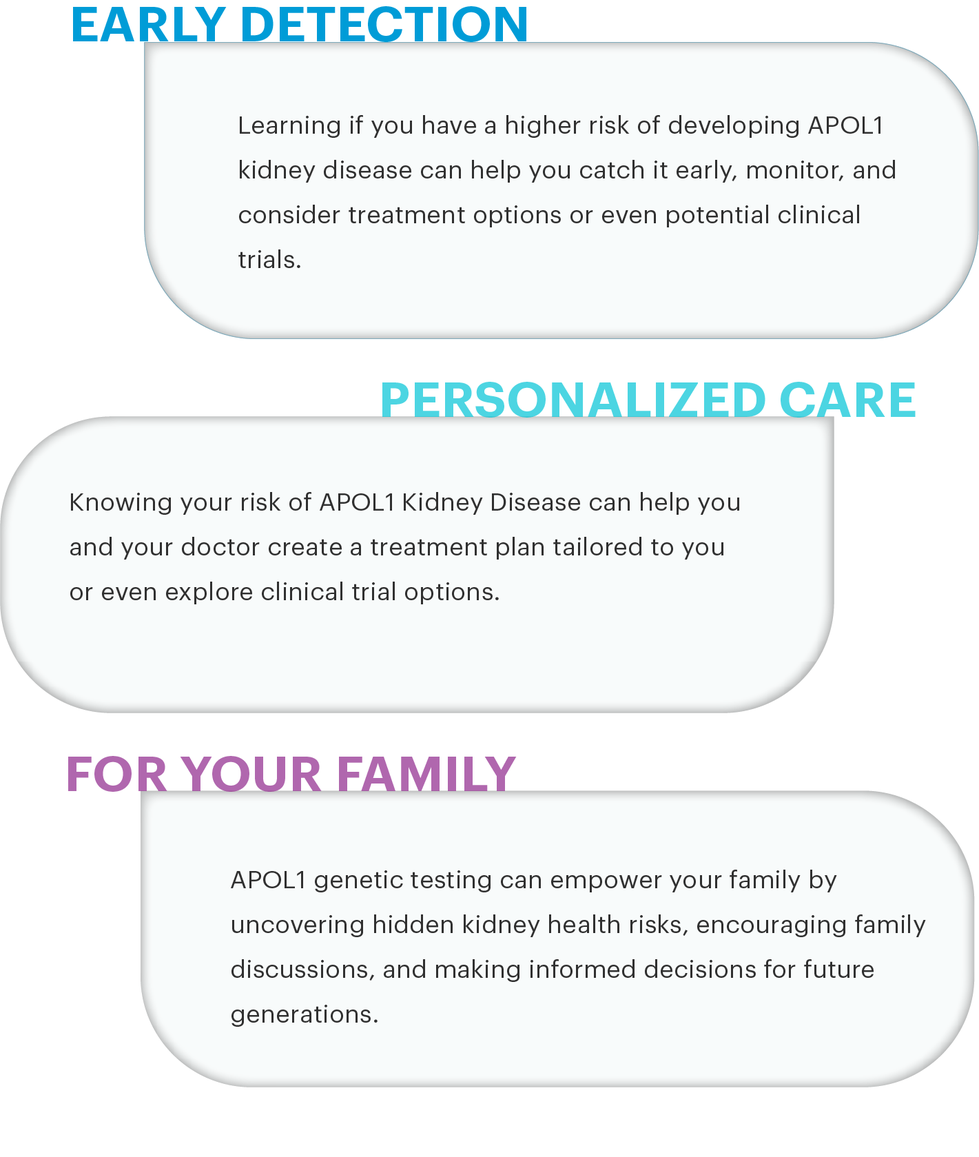
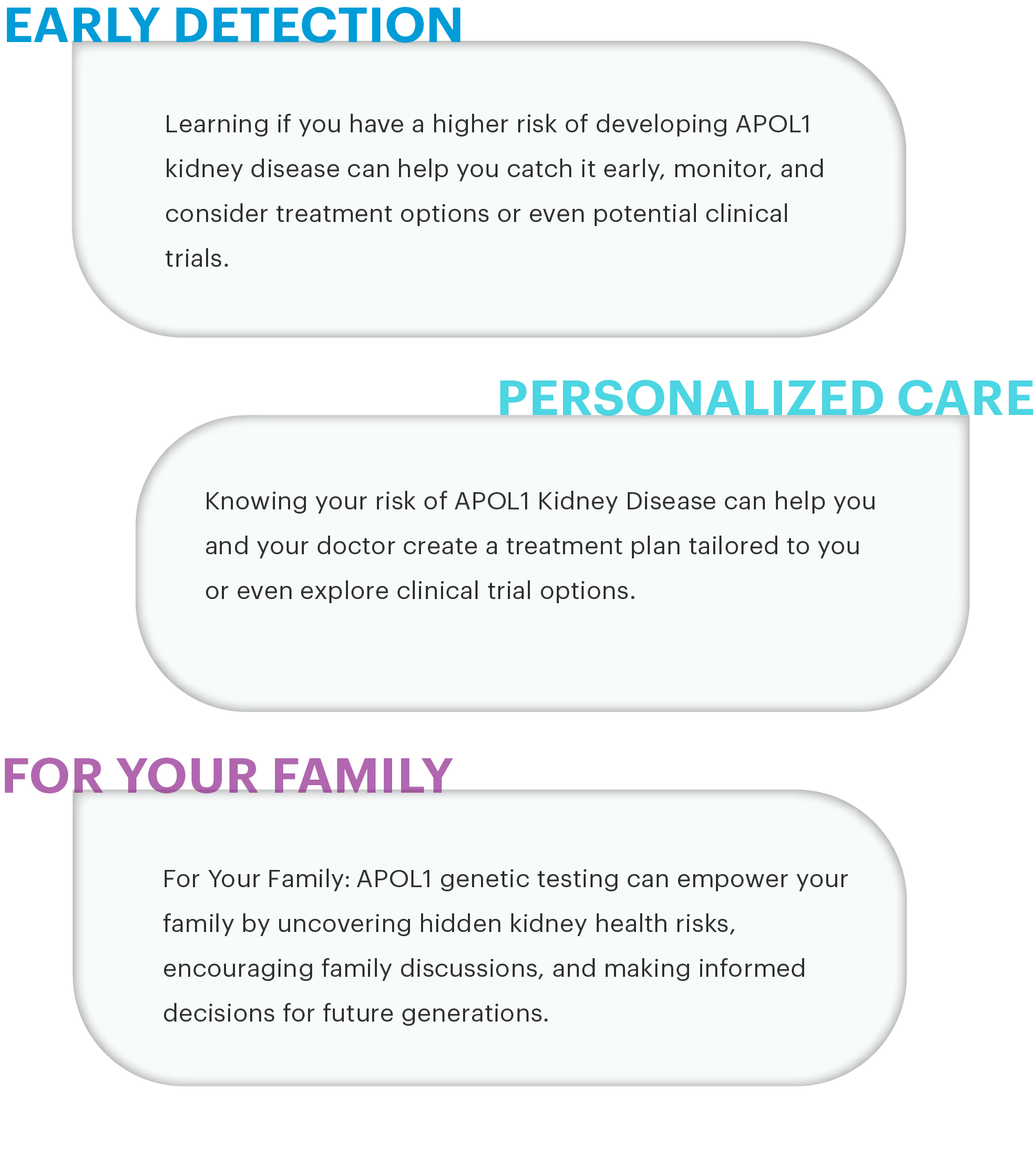
updated nav title and slider

diff --git a/assets/css/index.min.css b/assets/css/index.min.css
@@ -1,1 +1,1 @@
-@font-face{font-family:"Graphik Trial";src:url("../fonts/Graphik-Semibold-Trial.otf") format("opentype");font-weight:500}@font-face{font-family:"Graphik Trial";src:url("../fonts/Graphik-Medium-Trial.otf") format("opentype");font-weight:600}@font-face{font-family:"Graphik Trial";src:url("../fonts/Graphik-Regular-Trial.otf") format("opentype");font-weight:400}html{scroll-behavior:smooth}body{overflow-x:hidden}*{margin:0;padding:0;-webkit-box-sizing:border-box;box-sizing:border-box;font-family:"Graphik Trial"}.hr{width:100%;height:1px;display:block;position:relative;margin-bottom:0em;padding:2em 0}.hr:after,.hr:before{content:"";position:absolute;width:100%;height:1px;bottom:50%;left:0}.hr:before{background:-webkit-gradient(linear, left top, right top, from(#10111F), color-stop(50%, #10111F), color-stop(50%, transparent), to(transparent));background:linear-gradient(90deg, #10111F 0%, #10111F 50%, transparent 50%, transparent 100%);background-size:15px;background-position:center;z-index:1}.hr:after{-webkit-transition:opacity .3s ease,-webkit-animation .3s ease;transition:opacity .3s ease,-webkit-animation .3s ease;transition:opacity .3s ease,animation .3s ease;transition:opacity .3s ease,animation .3s ease,-webkit-animation .3s ease;background:-webkit-gradient(linear, left top, right top, color-stop(5%, #62efab), color-stop(15%, #F2EA7D), color-stop(25%, #F2EA7D), color-stop(35%, #FF8797), color-stop(45%, #FF8797), color-stop(55%, #e1a4f4), color-stop(65%, #e1a4f4), color-stop(75%, #82fff4), color-stop(85%, #82fff4), color-stop(95%, #62efab));background:linear-gradient(to right, #62efab 5%, #F2EA7D 15%, #F2EA7D 25%, #FF8797 35%, #FF8797 45%, #e1a4f4 55%, #e1a4f4 65%, #82fff4 75%, #82fff4 85%, #62efab 95%);background-size:200%;background-position:0%;-webkit-animation:bar 15s linear infinite;animation:bar 15s linear infinite}@-webkit-keyframes bar{0%{background-position:0%}100%{background-position:200%}}@keyframes bar{0%{background-position:0%}100%{background-position:200%}}.container{max-width:1800px;margin:auto;padding:60px 100px}@media(max-width: 800px){.container{padding:40px}}@media(max-width: 480px){.container{padding:40px 20px}}.bg{background-repeat:no-repeat;background-size:cover;background-position:top}.bg_contain{background-repeat:no-repeat;background-position:top;background-size:contain}a.pink_link{margin-bottom:20px;display:inline-block;text-decoration:none;padding:4px 40px 9px 40px;border-radius:40px;color:#f3f5f5;font-weight:400;background:#f3f5f5;-webkit-box-shadow:rgba(0,0,0,.1) 0px 4px 6px -1px,rgba(0,0,0,.06) 0px 2px 4px -1px;box-shadow:rgba(0,0,0,.1) 0px 4px 6px -1px,rgba(0,0,0,.06) 0px 2px 4px -1px;position:relative;z-index:99;overflow:hidden}a.pink_link::before{content:"";width:100%;height:100%;background:linear-gradient(94deg, rgba(236, 78, 86, 0.6) 0%, rgba(171, 30, 112, 0.6) 100%);position:absolute;left:0;top:0;right:0;bottom:0;z-index:-1}p{font-weight:400;line-height:40px;font-size:24px}@media(max-width: 480px){p{font-size:18px}}.heading{font-size:30px;font-weight:600;color:#c40c72;text-transform:uppercase}@media(max-width: 800px){.heading{margin-bottom:40px}}span.bullet{display:inline-block;width:20px;height:20px;background:#c40c72;border-radius:50%;margin-right:5px}img{width:100%}.brand{color:#c40c72;font-weight:600}.sub_p{margin:60px}@media(max-width: 800px){.sub_p{margin:0}}.sub_padding{padding:60px}@media(max-width: 800px){.sub_padding{padding:0}}header{position:absolute;top:0;left:0;right:0}header .container{display:-webkit-box;display:-ms-flexbox;display:flex;-webkit-box-pack:justify;-ms-flex-pack:justify;justify-content:space-between}header .container .middle img{width:190px}header .container .right button{background:rgba(0,0,0,0);border:none;outline:none;cursor:pointer}header .container .right svg{width:30px;display:-webkit-box;display:-ms-flexbox;display:flex;-webkit-box-pack:justify;-ms-flex-pack:justify;justify-content:space-between}header #menu{background-color:#2e537f;position:fixed;right:-548px;top:0;bottom:0;height:100%;z-index:99999;padding:40px;-webkit-transition:all .4s linear;transition:all .4s linear}header #menu.show{right:0}header #menu .close{text-align:right;margin-bottom:40px}header #menu .close img{width:30px}header #menu .close a{display:inline-block}header #menu ul{list-style:none}header #menu ul a{text-decoration:none;color:#f3f5f5;padding:14px 0;display:block;text-transform:uppercase}#hero{background-image:url("../images/hero-bg-new.png");height:100vh;background-position:center}@media(max-width: 480px){#hero{background-image:url("../images/mobilie-home.png");background-position:left top}}#hero .container{display:-webkit-box;display:-ms-flexbox;display:flex;height:100%;-webkit-box-align:end;-ms-flex-align:end;align-items:end;-webkit-box-pack:end;-ms-flex-pack:end;justify-content:end}@media(max-width: 480px){#hero .container{-webkit-box-pack:center;-ms-flex-pack:center;justify-content:center;-webkit-box-align:start;-ms-flex-align:start;align-items:start}}#hero .text{text-align:right;margin-right:20px}@media(max-width: 800px){#hero .text{margin-right:0}}@media(max-width: 480px){#hero .text{text-align:center}}#hero h1{font-size:50px;letter-spacing:.38px;color:#faf8f8;font-weight:600;margin-bottom:60px}@media(max-width: 480px){#hero h1{font-size:30px;margin-bottom:0;margin-top:150px}}#hero .brand{color:#255b7c;font-weight:500}#slider_nav{margin-top:40px}#slider_nav .container{position:relative}#slider_nav a.pink_link{text-transform:uppercase}#slider_nav .bg{position:absolute;top:0;left:0;z-index:-1;width:40%;-o-object-fit:contain;object-fit:contain}#slider_nav .heading{font-size:30px;font-weight:400;margin-bottom:60px;color:#303030}#slider_nav .img{position:relative;border-radius:8px;overflow:hidden;display:-webkit-box;display:-ms-flexbox;display:flex}#slider_nav .img img{-o-object-fit:cover;object-fit:cover;width:100%;height:100%}#slider_nav .img .text{position:absolute;bottom:0;left:0;right:0;padding:0 30px;display:none}#slider_nav .img .text h2{font-weight:600;color:#fff;text-transform:uppercase;margin-bottom:15px}#slider_nav .swiper-slide{width:50rem}#slider_nav .swiper-slide p{margin:20px 20px 40px}#slider_nav .swiper-slide-prev .img{border:10px solid gray !important}#slider_nav .swiper-slide-next .img{border:10px solid gray !important}#slider_nav .swiper-slide-prev,#slider_nav .swiper-slide-next{-webkit-filter:grayscale(100%);filter:grayscale(100%)}#slider_nav p{display:none}#slider_nav .swiper-slide-active p{display:block;text-align:center}#slider_nav .swiper-slide-active .img{border:10px solid #c40c72}#slider_nav .swiper-slide-active .text{display:block}#slider_nav .swiper-button-next:after,#slider_nav .swiper-rtl .swiper-button-prev:after,#slider_nav .swiper-button-prev:after,#slider_nav .swiper-rtl .swiper-button-next:after{content:none}#slider_nav .swiper-button-next img,#slider_nav .swiper-button-prev img{width:65px;height:65px}@media(max-width: 480px){#slider_nav .swiper-button-next img,#slider_nav .swiper-button-prev img{width:40px;height:40px}}#slider_nav .swiper-pagination-bullet{width:15px;height:15px;background:#ec4e55;background:linear-gradient(100deg, rgb(236, 78, 85) 3%, rgb(171, 30, 113) 100%);z-index:9999}#slider_nav .swiper-pagination-bullet.swiper-pagination-bullet-active{width:20px;height:20px}#slider_nav .swiper-button-next,#slider_nav .swiper-button-prev{top:43%}#slider_nav .swiper-button-next{right:85px}@media(max-width: 800px){#slider_nav .swiper-button-next{right:20px}}@media(max-width: 480px){#slider_nav .swiper-button-next{right:10px}}#slider_nav .swiper-button-prev{left:85px}@media(max-width: 800px){#slider_nav .swiper-button-prev{left:20px}}@media(max-width: 480px){#slider_nav .swiper-button-prev{left:10px}}#apol1_origin .row{display:-webkit-box;display:-ms-flexbox;display:flex;gap:10px;-webkit-box-align:center;-ms-flex-align:center;align-items:center}@media(max-width: 800px){#apol1_origin .row{-webkit-box-orient:vertical;-webkit-box-direction:reverse;-ms-flex-direction:column-reverse;flex-direction:column-reverse}}#apol1_origin .left,#apol1_origin .right{-webkit-box-flex:1;-ms-flex:1;flex:1}#apol1_origin .right{text-align:right}#apol1_origin .right img{max-height:440px;-o-object-fit:contain;object-fit:contain;width:100%}@media(max-width: 800px){#apol1_origin .right img{max-height:240px;margin:20px 0}}#apol1_origin img{width:100%}#apol1_origin p{margin-bottom:30px}#apol1_origin .centered{margin-top:30px;max-width:900px;margin:30px auto}#apol_kidney img{margin:40px 0 60px}#apol_kidney .row{display:-webkit-box;display:-ms-flexbox;display:flex;gap:40px}@media(max-width: 800px){#apol_kidney .row{-webkit-box-orient:vertical;-webkit-box-direction:normal;-ms-flex-direction:column;flex-direction:column}}#recognizing_symptoms img{max-width:600px;margin:auto}#recognizing_symptoms .img{text-align:center}@media(max-width: 800px){#recognizing_symptoms .img{margin-top:20px}}#apol1_gene{background-position:center}#apol1_gene .container{padding-bottom:0}#apol1_gene .gene{padding:100px 100px 0}@media(max-width: 800px){#apol1_gene .gene{padding:40px 40px 0}}#apol1_gene .row.bg_contain{background-position:center}@media(max-width: 800px){#apol1_gene .row.bg_contain{background-position:left}#apol1_gene .row.bg_contain .container{padding:0}}#apol1_gene .text{height:400px;display:-webkit-box;display:-ms-flexbox;display:flex;-webkit-box-pack:end;-ms-flex-pack:end;justify-content:end;-webkit-box-align:end;-ms-flex-align:end;align-items:end}@media(max-width: 800px){#apol1_gene .text{height:auto}}#apol1_gene .text p{max-width:800px;background-color:rgba(255,255,255,.74);padding:30px;border-radius:30px}@media(max-width: 800px){#apol1_gene .text p{background-color:rgba(255,255,255,.74);border-radius:0}}#mazes_commitment .container{position:relative}#mazes_commitment .text{padding:40px}@media(max-width: 800px){#mazes_commitment .text{padding:0}}#mazes_commitment .text p{margin:20px 0}#mazes_commitment .bg_obj{position:absolute;max-width:500px;top:0;right:40px;z-index:-1}@media(max-width: 800px){#mazes_commitment .bg_obj{max-width:300px;top:100px;right:0}}#mazes_commitment .form-container{padding:20px;border-radius:8px}#mazes_commitment .form-container form{display:-webkit-box;display:-ms-flexbox;display:flex;-webkit-box-orient:vertical;-webkit-box-direction:normal;-ms-flex-direction:column;flex-direction:column}#mazes_commitment .form-container .input-group{margin-bottom:20px}#mazes_commitment .form-container input,#mazes_commitment .form-container textarea{width:100%;padding:10px;border:1px solid #666;border-radius:4px;background-color:#fff;color:#000;font-size:18px}#mazes_commitment .form-container input::-webkit-input-placeholder, #mazes_commitment .form-container textarea::-webkit-input-placeholder{color:#5d5d5d}#mazes_commitment .form-container input::-moz-placeholder, #mazes_commitment .form-container textarea::-moz-placeholder{color:#5d5d5d}#mazes_commitment .form-container input:-ms-input-placeholder, #mazes_commitment .form-container textarea:-ms-input-placeholder{color:#5d5d5d}#mazes_commitment .form-container input::-ms-input-placeholder, #mazes_commitment .form-container textarea::-ms-input-placeholder{color:#5d5d5d}#mazes_commitment .form-container input::placeholder,#mazes_commitment .form-container textarea::placeholder{color:#5d5d5d}#mazes_commitment .form-container .input-row{display:-webkit-box;display:-ms-flexbox;display:flex;-webkit-box-pack:justify;-ms-flex-pack:justify;justify-content:space-between;gap:20px}#mazes_commitment .form-container .input-row .input-group{width:50%}#mazes_commitment .form-container .captcha{display:-webkit-box;display:-ms-flexbox;display:flex;-webkit-box-pack:justify;-ms-flex-pack:justify;justify-content:space-between;-webkit-box-align:center;-ms-flex-align:center;align-items:center;padding:10px;border:1px solid #666;border-radius:4px;background-color:#fff}#mazes_commitment .form-container .captcha input{border:none;outline:none;padding:0;margin:0}#mazes_commitment .form-container .captcha label{margin-right:10px;display:inline-block;min-width:70px}#mazes_commitment .form-container .submit-btn{background-color:#8bc34a;color:#fff;padding:10px;border:none;border-radius:4px;cursor:pointer;font-size:18px}#mazes_commitment .form-container .submit-btn:hover{background-color:#7cb342}#mazes_commitment .form-container .loader{border:3px solid #f3f3f3;border-top:3px solid #3498db;border-radius:50%;width:15px;height:15px;-webkit-animation:spin 1s linear infinite;animation:spin 1s linear infinite;display:none;margin-left:10px}@-webkit-keyframes spin{0%{-webkit-transform:rotate(0deg);transform:rotate(0deg)}100%{-webkit-transform:rotate(360deg);transform:rotate(360deg)}}@keyframes spin{0%{-webkit-transform:rotate(0deg);transform:rotate(0deg)}100%{-webkit-transform:rotate(360deg);transform:rotate(360deg)}}#mazes_commitment a{color:#5cc1cb}#advisary_committee .text{margin-bottom:150px}#advisary_committee .committee{background-position:center;background-size:cover}#advisary_committee .users{display:-webkit-box;display:-ms-flexbox;display:flex;gap:40px;-ms-flex-wrap:wrap;flex-wrap:wrap;-webkit-box-pack:center;-ms-flex-pack:center;justify-content:center}#advisary_committee .users .user{-webkit-box-flex:1;-ms-flex:1;flex:1;max-width:295px;min-width:200px;-webkit-transition:all .6s linear;transition:all .6s linear}#advisary_committee .users .user:hover img{-webkit-transform:scaleY(1.01);transform:scaleY(1.01);-webkit-transform-origin:bottom;transform-origin:bottom}#advisary_committee .users h6{font-size:20px;font-weight:600;margin:10px 0}#advisary_committee .users .title{font-size:16px}#advisary_committee img{background-color:#f3f5f5;-webkit-transition:all .3s ease-in-out;transition:all .3s ease-in-out;max-height:350px;height:100%;-o-object-fit:cover;object-fit:cover;-o-object-position:top;object-position:top}#advisary_committee .users{margin-top:-200px}#learn_more{background-position:center}#learn_more .highlight{background-color:rgba(255,192,203,.231372549);color:#000;display:inline-block;padding:0 10px}@media(max-width: 800px){#learn_more .highlight{margin-bottom:40px}}#learn_more h5{font-size:20px;color:#c40c72;margin-bottom:10px}#learn_more p{font-size:20px}#learn_more a{display:inline-block;color:#5cc1cb}#learn_more .tab{-webkit-box-shadow:rgba(99,99,99,.2) 0px 2px 8px 0px;box-shadow:rgba(99,99,99,.2) 0px 2px 8px 0px;padding:20px 50px;margin-bottom:40px;min-height:140px;-webkit-transition:all .3s ease-in-out;transition:all .3s ease-in-out;-webkit-transform-origin:top;transform-origin:top}@media(max-width: 480px){#learn_more .tab{padding:20px 30px}}#learn_more .full_content{overflow:hidden;-webkit-transition:height .3s linear;transition:height .3s linear}#learn_more .full_content ul{padding-left:20px}#learn_more .full_content ul li{margin-bottom:10px}#learn_more .full_content.h-0{height:0px;-webkit-transition:height .3s linear;transition:height .3s linear}#maze_affliations .brands{display:-webkit-box;display:-ms-flexbox;display:flex;-webkit-box-align:center;-ms-flex-align:center;align-items:center}footer{background-color:#2e537f}footer .container{padding:20px 100px}@media(max-width: 800px){footer .container{padding:20px}}footer .row{display:-webkit-box;display:-ms-flexbox;display:flex;gap:20px;-webkit-box-pack:justify;-ms-flex-pack:justify;justify-content:space-between;-webkit-box-align:center;-ms-flex-align:center;align-items:center}footer h4 a{color:#9ccac8;font-size:22px;text-decoration:none}footer ul{display:-webkit-box;display:-ms-flexbox;display:flex;gap:40px;list-style:none;-webkit-box-pack:right;-ms-flex-pack:right;justify-content:right}@media(max-width: 800px){footer ul{margin:20;-ms-flex-wrap:wrap;flex-wrap:wrap}}footer ul a{color:#f3f5f5}footer .top-link{display:inline-block;background:linear-gradient(100deg, rgb(236, 78, 85) 3%, rgb(171, 30, 113) 100%);width:50px;height:50px;text-align:center;border-radius:4px;position:fixed;bottom:30px;right:30px;-webkit-transition:background-color .3s,opacity .5s,visibility .5s;transition:background-color .3s,opacity .5s,visibility .5s;opacity:0;visibility:hidden;z-index:1000;padding:10px}@media(max-width: 480px){footer .top-link{width:35px;height:35px;padding:8px}}footer .top-link .screen-reader-text{display:none}footer .top-link svg{fill:#fff}footer .top-link.show{visibility:visible;opacity:1}footer .top-link.hide{visibility:hidden;opacity:0}
+@font-face{font-family:"Graphik Trial";src:url("../fonts/Graphik-Semibold-Trial.otf") format("opentype");font-weight:500}@font-face{font-family:"Graphik Trial";src:url("../fonts/Graphik-Medium-Trial.otf") format("opentype");font-weight:600}@font-face{font-family:"Graphik Trial";src:url("../fonts/Graphik-Regular-Trial.otf") format("opentype");font-weight:400}html{scroll-behavior:smooth}body{overflow-x:hidden}*{margin:0;padding:0;-webkit-box-sizing:border-box;box-sizing:border-box;font-family:"Graphik Trial"}.hr{width:100%;height:1px;display:block;position:relative;margin-bottom:0em;padding:2em 0}.hr:after,.hr:before{content:"";position:absolute;width:100%;height:1px;bottom:50%;left:0}.hr:before{background:-webkit-gradient(linear, left top, right top, from(#10111F), color-stop(50%, #10111F), color-stop(50%, transparent), to(transparent));background:linear-gradient(90deg, #10111F 0%, #10111F 50%, transparent 50%, transparent 100%);background-size:15px;background-position:center;z-index:1}.hr:after{-webkit-transition:opacity .3s ease,-webkit-animation .3s ease;transition:opacity .3s ease,-webkit-animation .3s ease;transition:opacity .3s ease,animation .3s ease;transition:opacity .3s ease,animation .3s ease,-webkit-animation .3s ease;background:-webkit-gradient(linear, left top, right top, color-stop(5%, #62efab), color-stop(15%, #F2EA7D), color-stop(25%, #F2EA7D), color-stop(35%, #FF8797), color-stop(45%, #FF8797), color-stop(55%, #e1a4f4), color-stop(65%, #e1a4f4), color-stop(75%, #82fff4), color-stop(85%, #82fff4), color-stop(95%, #62efab));background:linear-gradient(to right, #62efab 5%, #F2EA7D 15%, #F2EA7D 25%, #FF8797 35%, #FF8797 45%, #e1a4f4 55%, #e1a4f4 65%, #82fff4 75%, #82fff4 85%, #62efab 95%);background-size:200%;background-position:0%;-webkit-animation:bar 15s linear infinite;animation:bar 15s linear infinite}@-webkit-keyframes bar{0%{background-position:0%}100%{background-position:200%}}@keyframes bar{0%{background-position:0%}100%{background-position:200%}}.container{max-width:1800px;margin:auto;padding:60px 100px}@media(max-width: 800px){.container{padding:40px}}@media(max-width: 480px){.container{padding:40px 20px}}.bg{background-repeat:no-repeat;background-size:cover;background-position:top}.bg_contain{background-repeat:no-repeat;background-position:top;background-size:contain}a.pink_link{margin-bottom:20px;display:inline-block;text-decoration:none;padding:4px 40px 9px 40px;border-radius:40px;color:#f3f5f5;font-weight:400;background:#f3f5f5;-webkit-box-shadow:rgba(0,0,0,.1) 0px 4px 6px -1px,rgba(0,0,0,.06) 0px 2px 4px -1px;box-shadow:rgba(0,0,0,.1) 0px 4px 6px -1px,rgba(0,0,0,.06) 0px 2px 4px -1px;position:relative;z-index:99;overflow:hidden}a.pink_link::before{content:"";width:100%;height:100%;background:linear-gradient(94deg, rgba(236, 78, 86, 0.6) 0%, rgba(171, 30, 112, 0.6) 100%);position:absolute;left:0;top:0;right:0;bottom:0;z-index:-1}p{font-weight:400;line-height:40px;font-size:24px}@media(max-width: 480px){p{font-size:18px}}.heading{font-size:30px;font-weight:600;color:#c40c72;text-transform:uppercase}@media(max-width: 800px){.heading{margin-bottom:40px}}span.bullet{display:inline-block;width:20px;height:20px;background:#c40c72;border-radius:50%;margin-right:5px}img{width:100%}.brand{color:#c40c72;font-weight:600}.sub_p{margin:60px}@media(max-width: 800px){.sub_p{margin:0}}.sub_padding{padding:60px}@media(max-width: 800px){.sub_padding{padding:0}}header{position:absolute;top:0;left:0;right:0}header .container{display:-webkit-box;display:-ms-flexbox;display:flex;-webkit-box-pack:justify;-ms-flex-pack:justify;justify-content:space-between}header .container .middle img{width:190px}header .container .right button{background:rgba(0,0,0,0);border:none;outline:none;cursor:pointer}header .container .right svg{width:30px;display:-webkit-box;display:-ms-flexbox;display:flex;-webkit-box-pack:justify;-ms-flex-pack:justify;justify-content:space-between}header #menu{background-color:#2e537f;position:fixed;right:-548px;top:0;bottom:0;height:100%;z-index:99999;padding:40px;-webkit-transition:all .4s linear;transition:all .4s linear}header #menu.show{right:0}header #menu .close{text-align:right;margin-bottom:40px}header #menu .close img{width:30px}header #menu .close a{display:inline-block}header #menu ul{list-style:none}header #menu ul a{text-decoration:none;color:#f3f5f5;padding:14px 0;display:block;text-transform:uppercase}#hero{background-image:url("../images/hero-bg-new.png");height:100vh;background-position:center}@media(max-width: 480px){#hero{background-image:url("../images/mobilie-home.png");background-position:left top}}#hero .container{display:-webkit-box;display:-ms-flexbox;display:flex;height:100%;-webkit-box-align:end;-ms-flex-align:end;align-items:end;-webkit-box-pack:end;-ms-flex-pack:end;justify-content:end}@media(max-width: 480px){#hero .container{-webkit-box-pack:center;-ms-flex-pack:center;justify-content:center;-webkit-box-align:start;-ms-flex-align:start;align-items:start}}#hero .text{text-align:right;margin-right:20px}@media(max-width: 800px){#hero .text{margin-right:0}}@media(max-width: 480px){#hero .text{text-align:center}}#hero h1{font-size:50px;letter-spacing:.38px;color:#faf8f8;font-weight:600;margin-bottom:60px}@media(max-width: 480px){#hero h1{font-size:30px;margin-bottom:0;margin-top:150px}}#hero .brand{color:#255b7c;font-weight:500}#slider_nav{margin-top:40px}#slider_nav .container{position:relative}#slider_nav a.pink_link{text-transform:uppercase}#slider_nav .bg{position:absolute;top:0;left:0;z-index:-1;width:40%;-o-object-fit:contain;object-fit:contain}#slider_nav .heading{font-size:30px;font-weight:400;margin-bottom:60px;color:#303030}#slider_nav .img{position:relative;border-radius:8px;overflow:hidden;display:-webkit-box;display:-ms-flexbox;display:flex}#slider_nav .img img{-o-object-fit:cover;object-fit:cover;width:100%;height:100%}#slider_nav .img .text{position:absolute;bottom:0;left:0;right:0;padding:0 30px;display:none}#slider_nav .img .text h2{font-weight:600;color:#fff;text-transform:uppercase;margin-bottom:15px}#slider_nav .swiper-slide{width:50rem}#slider_nav .swiper-slide p{margin:20px 20px 40px}#slider_nav .swiper-slide-prev .img{border:10px solid gray !important}#slider_nav .swiper-slide-next .img{border:10px solid gray !important}#slider_nav .swiper-slide-prev,#slider_nav .swiper-slide-next{-webkit-filter:grayscale(100%);filter:grayscale(100%)}#slider_nav p{display:none}#slider_nav .swiper-slide-active p{display:block;text-align:center}#slider_nav .swiper-slide-active .img{border:10px solid #c40c72}#slider_nav .swiper-slide-active .text{display:block}#slider_nav .swiper-button-next:after,#slider_nav .swiper-rtl .swiper-button-prev:after,#slider_nav .swiper-button-prev:after,#slider_nav .swiper-rtl .swiper-button-next:after{content:none}#slider_nav .swiper-button-next img,#slider_nav .swiper-button-prev img{width:65px;height:65px}@media(max-width: 480px){#slider_nav .swiper-button-next img,#slider_nav .swiper-button-prev img{width:40px;height:40px}}#slider_nav .swiper-pagination-bullet{width:15px;height:15px;background:#ec4e55;background:linear-gradient(100deg, rgb(236, 78, 85) 3%, rgb(171, 30, 113) 100%);z-index:9999}#slider_nav .swiper-pagination-bullet.swiper-pagination-bullet-active{width:20px;height:20px}#slider_nav .swiper-button-next,#slider_nav .swiper-button-prev{top:43%}#slider_nav .swiper-button-next{right:85px}@media(max-width: 800px){#slider_nav .swiper-button-next{right:20px}}@media(max-width: 480px){#slider_nav .swiper-button-next{right:10px}}#slider_nav .swiper-button-prev{left:85px}@media(max-width: 800px){#slider_nav .swiper-button-prev{left:20px}}@media(max-width: 480px){#slider_nav .swiper-button-prev{left:10px}}#apol1_origin .row{display:-webkit-box;display:-ms-flexbox;display:flex;gap:60px;-webkit-box-align:center;-ms-flex-align:center;align-items:center}#apol1_origin .left,#apol1_origin .right{-webkit-box-flex:1;-ms-flex:1;flex:1}#apol1_origin .right{text-align:left}#apol1_origin .right img{max-height:440px;-o-object-fit:contain;object-fit:contain;width:100%}@media(max-width: 800px){#apol1_origin .right img{max-height:240px;margin:20px 0}}#apol1_origin .right p{font-size:18px}#apol1_origin img{width:100%}#apol1_origin p{margin-bottom:20px}#apol1_origin .centered{margin-top:30px;max-width:900px;margin:30px auto}#apol_kidney img{margin:40px 0 60px}#apol_kidney .row{display:-webkit-box;display:-ms-flexbox;display:flex;gap:40px}@media(max-width: 800px){#apol_kidney .row{-webkit-box-orient:vertical;-webkit-box-direction:normal;-ms-flex-direction:column;flex-direction:column}}#recognizing_symptoms img{max-width:600px;margin:auto}#recognizing_symptoms .img{text-align:center}@media(max-width: 800px){#recognizing_symptoms .img{margin-top:20px}}#apol1_gene{background-position:center}#apol1_gene .container{padding-bottom:0}#apol1_gene .gene{padding:100px 100px 0}@media(max-width: 800px){#apol1_gene .gene{padding:40px 40px 0}}#apol1_gene .row.bg_contain{background-position:center}@media(max-width: 800px){#apol1_gene .row.bg_contain{background-position:left}#apol1_gene .row.bg_contain .container{padding:0}}#apol1_gene .text{height:400px;display:-webkit-box;display:-ms-flexbox;display:flex;-webkit-box-pack:end;-ms-flex-pack:end;justify-content:end;-webkit-box-align:end;-ms-flex-align:end;align-items:end}@media(max-width: 800px){#apol1_gene .text{height:auto}}#apol1_gene .text p{max-width:800px;background-color:rgba(255,255,255,.74);padding:30px;border-radius:30px}@media(max-width: 800px){#apol1_gene .text p{background-color:rgba(255,255,255,.74);border-radius:0}}#mazes_commitment .container{position:relative}#mazes_commitment .text{padding:40px}@media(max-width: 800px){#mazes_commitment .text{padding:0}}#mazes_commitment .text p{margin:20px 0}#mazes_commitment .bg_obj{position:absolute;max-width:500px;top:0;right:40px;z-index:-1}@media(max-width: 800px){#mazes_commitment .bg_obj{max-width:300px;top:100px;right:0}}#mazes_commitment .form-container{padding:20px;border-radius:8px}#mazes_commitment .form-container form{display:-webkit-box;display:-ms-flexbox;display:flex;-webkit-box-orient:vertical;-webkit-box-direction:normal;-ms-flex-direction:column;flex-direction:column}#mazes_commitment .form-container .input-group{margin-bottom:20px}#mazes_commitment .form-container input,#mazes_commitment .form-container textarea{width:100%;padding:10px;border:1px solid #666;border-radius:4px;background-color:#fff;color:#000;font-size:18px}#mazes_commitment .form-container input::-webkit-input-placeholder, #mazes_commitment .form-container textarea::-webkit-input-placeholder{color:#5d5d5d}#mazes_commitment .form-container input::-moz-placeholder, #mazes_commitment .form-container textarea::-moz-placeholder{color:#5d5d5d}#mazes_commitment .form-container input:-ms-input-placeholder, #mazes_commitment .form-container textarea:-ms-input-placeholder{color:#5d5d5d}#mazes_commitment .form-container input::-ms-input-placeholder, #mazes_commitment .form-container textarea::-ms-input-placeholder{color:#5d5d5d}#mazes_commitment .form-container input::placeholder,#mazes_commitment .form-container textarea::placeholder{color:#5d5d5d}#mazes_commitment .form-container .input-row{display:-webkit-box;display:-ms-flexbox;display:flex;-webkit-box-pack:justify;-ms-flex-pack:justify;justify-content:space-between;gap:20px}#mazes_commitment .form-container .input-row .input-group{width:50%}#mazes_commitment .form-container .captcha{display:-webkit-box;display:-ms-flexbox;display:flex;-webkit-box-pack:justify;-ms-flex-pack:justify;justify-content:space-between;-webkit-box-align:center;-ms-flex-align:center;align-items:center;padding:10px;border:1px solid #666;border-radius:4px;background-color:#fff}#mazes_commitment .form-container .captcha input{border:none;outline:none;padding:0;margin:0}#mazes_commitment .form-container .captcha label{margin-right:10px;display:inline-block;min-width:70px}#mazes_commitment .form-container .submit-btn{background-color:#8bc34a;color:#fff;padding:10px;border:none;border-radius:4px;cursor:pointer;font-size:18px}#mazes_commitment .form-container .submit-btn:hover{background-color:#7cb342}#mazes_commitment .form-container .loader{border:3px solid #f3f3f3;border-top:3px solid #3498db;border-radius:50%;width:15px;height:15px;-webkit-animation:spin 1s linear infinite;animation:spin 1s linear infinite;display:none;margin-left:10px}@-webkit-keyframes spin{0%{-webkit-transform:rotate(0deg);transform:rotate(0deg)}100%{-webkit-transform:rotate(360deg);transform:rotate(360deg)}}@keyframes spin{0%{-webkit-transform:rotate(0deg);transform:rotate(0deg)}100%{-webkit-transform:rotate(360deg);transform:rotate(360deg)}}#mazes_commitment a{color:#5cc1cb}#advisary_committee .text{margin-bottom:150px}#advisary_committee .committee{background-position:center;background-size:cover}#advisary_committee .users{display:-webkit-box;display:-ms-flexbox;display:flex;gap:40px;-ms-flex-wrap:wrap;flex-wrap:wrap;-webkit-box-pack:center;-ms-flex-pack:center;justify-content:center}#advisary_committee .users .user{-webkit-box-flex:1;-ms-flex:1;flex:1;max-width:295px;min-width:200px;-webkit-transition:all .6s linear;transition:all .6s linear}#advisary_committee .users .user:hover img{-webkit-transform:scaleY(1.01);transform:scaleY(1.01);-webkit-transform-origin:bottom;transform-origin:bottom}#advisary_committee .users h6{font-size:20px;font-weight:600;margin:10px 0}#advisary_committee .users .title{font-size:16px}#advisary_committee img{background-color:#f3f5f5;-webkit-transition:all .3s ease-in-out;transition:all .3s ease-in-out;max-height:350px;height:100%;-o-object-fit:cover;object-fit:cover;-o-object-position:top;object-position:top}#advisary_committee .users{margin-top:-200px}#learn_more{background-position:center}#learn_more .highlight{background-color:rgba(255,192,203,.231372549);color:#000;display:inline-block;padding:0 10px}@media(max-width: 800px){#learn_more .highlight{margin-bottom:40px}}#learn_more h5{font-size:20px;color:#c40c72;margin-bottom:10px}#learn_more p{font-size:20px}#learn_more a{display:inline-block;color:#5cc1cb}#learn_more .tab{-webkit-box-shadow:rgba(99,99,99,.2) 0px 2px 8px 0px;box-shadow:rgba(99,99,99,.2) 0px 2px 8px 0px;padding:20px 50px;margin-bottom:40px;min-height:140px;-webkit-transition:all .3s ease-in-out;transition:all .3s ease-in-out;-webkit-transform-origin:top;transform-origin:top}@media(max-width: 480px){#learn_more .tab{padding:20px 30px}}#learn_more .full_content{overflow:hidden;-webkit-transition:height .3s linear;transition:height .3s linear}#learn_more .full_content ul{padding-left:20px}#learn_more .full_content ul li{margin-bottom:10px}#learn_more .full_content.h-0{height:0px;-webkit-transition:height .3s linear;transition:height .3s linear}#maze_affliations .brands{display:-webkit-box;display:-ms-flexbox;display:flex;-webkit-box-align:center;-ms-flex-align:center;align-items:center}footer{background-color:#2e537f}footer .container{padding:20px 100px}@media(max-width: 800px){footer .container{padding:20px}}footer .row{display:-webkit-box;display:-ms-flexbox;display:flex;gap:20px;-webkit-box-pack:justify;-ms-flex-pack:justify;justify-content:space-between;-webkit-box-align:center;-ms-flex-align:center;align-items:center}footer h4 a{color:#9ccac8;font-size:22px;text-decoration:none}footer ul{display:-webkit-box;display:-ms-flexbox;display:flex;gap:40px;list-style:none;-webkit-box-pack:right;-ms-flex-pack:right;justify-content:right}@media(max-width: 800px){footer ul{margin:20;-ms-flex-wrap:wrap;flex-wrap:wrap}}footer ul a{color:#f3f5f5}footer .top-link{display:inline-block;background:linear-gradient(100deg, rgb(236, 78, 85) 3%, rgb(171, 30, 113) 100%);width:50px;height:50px;text-align:center;border-radius:4px;position:fixed;bottom:30px;right:30px;-webkit-transition:background-color .3s,opacity .5s,visibility .5s;transition:background-color .3s,opacity .5s,visibility .5s;opacity:0;visibility:hidden;z-index:1000;padding:10px}@media(max-width: 480px){footer .top-link{width:35px;height:35px;padding:8px}}footer .top-link .screen-reader-text{display:none}footer .top-link svg{fill:#fff}footer .top-link.show{visibility:visible;opacity:1}footer .top-link.hide{visibility:hidden;opacity:0}

diff --git a/index.html b/index.html
@@ -62,7 +62,7 @@
         </div>
         <ul>
           <li><a href="#apol1_origin">APOL1 AND ITS ORIGIN</a></li>
-          <li><a href="#apol_kidney">APOL1 Kidney Disease</a></li>
+          <li><a href="#apol_kidney">Understanding APOL1 Kidney Disease</a></li>
           <li><a href="#recognizing_symptoms">RECOGNIZING SYMPTOMS</a></li>
           <li><a href="#apol1_gene">You, Your Family, and the APOL1 Gene</a></li>
           <li><a href="#mazes_commitment">Maze's Commitment to You </a></li>
@@ -105,7 +105,7 @@
               <div class="img" style="border-color: #C40C72;">
                 <a href="#apol_kidney"><img class="lozad" data-src="assets/images/apol1-kidney-disease.jpg" alt="APOL1 Kidney Diseas"></a>
                 <div class="text">
-                  <a class="pink_link" href="#apol_kidney">APOL1 Kidney Disease</a>
+                  <a class="pink_link" href="#apol_kidney">Understanding APOL1 Kidney Disease</a>
                 </div>
               </div>
               <p>Learn about the APOL1 gene and how it increases your risk of getting chronic kidney disease</p>
@@ -165,24 +165,28 @@
         <p class="sub_p" style="margin-bottom: 60px;">APOL1 Kidney Disease, also known as APOL1-mediated kidney disease (AMKD), refers to chronic kidney disease in patients with APOL1 gene variants.</p>
         <div class="row">
           <div class="left">
+            <!-- <img class="lozad" data-src="assets/images/APOL1-Origin.png" alt="people"> -->
+            <img class="lozad" data-src="assets/images/apolo-bottom.png" alt="People of African ancestry, including those who identify as Black, African American, Caribbean, and/or Latino/Latina, who have these gene variants are at a higher risk of developing APOL1 Kidney Disease">
+          </div>
+          <div class="right">
             <p>
               <span class="bullet"></span>
-              Everyone has a gene called APOL1 or apolipoprotein L1. We each have two copies of the APOL1 gene, one inherited from each of our parents. Some people have changes in the APOL1 gene, called variants or mutations that raise their risk of chronic kidney disease.
+              Everyone has a gene called APOL1 or apolipoprotein L1. We each have two copies of the APOL1 gene, one inherited from each of our parents.
+            </p>
+            <p>
+              <span class="bullet"></span>
+              Some people have changes in the APOL1 gene, called variants or mutations that raise their risk of chronic kidney disease.
             </p>
             <p>
               <span class="bullet"></span>
               	People of African ancestry, including those who identify as Black, African American, Caribbean, and/or Latino, who carry these APOL1 gene variants may experience faster loss of kidney function.
             </p>
-          </div>
-          <div class="right">
-            <!-- <img class="lozad" data-src="assets/images/APOL1-Origin.png" alt="people"> -->
-            <img class="lozad" data-src="assets/images/apolo-bottom.png" alt="People of African ancestry, including those who identify as Black, African American, Caribbean, and/or Latino/Latina, who have these gene variants are at a higher risk of developing APOL1 Kidney Disease">
+            <p>
+              <span class="bullet"></span>
+                The APOL1 gene variants evolved in Western and Central Africa to protect individuals from a disease known as African sleeping sickness. Over time, these same gene variants are now known to increase a person's risk of developing APOL1 Kidney Disease.
+            </p>
           </div>
         </div>
-        <p class="centered" style="margin-bottom: 0;">
-          <span class="bullet"></span>
-          	The APOL1 gene variants evolved in Western and Central Africa to protect individuals from a deadly disease known as African sleeping sickness. Over time, these same gene variants are now known to increase a person's risk of developing APOL1 Kidney Disease.
-        </p>
        </div>
     </section>
 
@@ -261,6 +265,7 @@
                     <div class="loader" id="loader"></div>
                   </div>
               </form>
+              <div id="formResponse"></div>
           </div>
         </div>
         <img class="lozad bg_obj" data-src="assets/images/hands-bg@2x-8.png" alt="Background Object" >

diff --git a/assets/css/index.css b/assets/css/index.css
@@ -470,18 +470,10 @@ header #menu ul a {
   display: -webkit-box;
   display: -ms-flexbox;
   display: flex;
-  gap: 10px;
+  gap: 60px;
   -webkit-box-align: center;
       -ms-flex-align: center;
           align-items: center;
-}
-@media (max-width: 800px) {
-  #apol1_origin .row {
-    -webkit-box-orient: vertical;
-    -webkit-box-direction: reverse;
-        -ms-flex-direction: column-reverse;
-            flex-direction: column-reverse;
-  }
 }
 #apol1_origin .left, #apol1_origin .right {
   -webkit-box-flex: 1;
@@ -489,7 +481,7 @@ header #menu ul a {
           flex: 1;
 }
 #apol1_origin .right {
-  text-align: right;
+  text-align: left;
 }
 #apol1_origin .right img {
   max-height: 440px;
@@ -503,11 +495,14 @@ header #menu ul a {
     margin: 20px 0;
   }
 }
+#apol1_origin .right p {
+  font-size: 18px;
+}
 #apol1_origin img {
   width: 100%;
 }
 #apol1_origin p {
-  margin-bottom: 30px;
+  margin-bottom: 20px;
 }
 #apol1_origin .centered {
   margin-top: 30px;

diff --git a/assets/css/index.scss b/assets/css/index.scss
@@ -480,12 +480,12 @@ header{
 #apol1_origin{
     .row{
         display: flex;
-        gap: 10px;
+        gap: 60px;
         align-items: center;
 
-        @media(max-width: $tablet){
-            flex-direction: column-reverse;
-        }
+        // @media(max-width: $tablet){
+        //     flex-direction: column-reverse;
+        // }
     }
 
     .left, .right{
@@ -493,7 +493,7 @@ header{
     }
 
     .right{
-        text-align: right;
+        text-align: left;
         img{
             max-height: 440px;
             object-fit: contain;
@@ -503,6 +503,10 @@ header{
                 margin: 20px 0;
             }
         }
+
+        p{
+            font-size: 18px;
+        }
     }
 
     img{
@@ -510,7 +514,7 @@ header{
     }
 
     p{
-        margin-bottom: 30px;
+        margin-bottom: 20px;
     }
 
     .centered{
